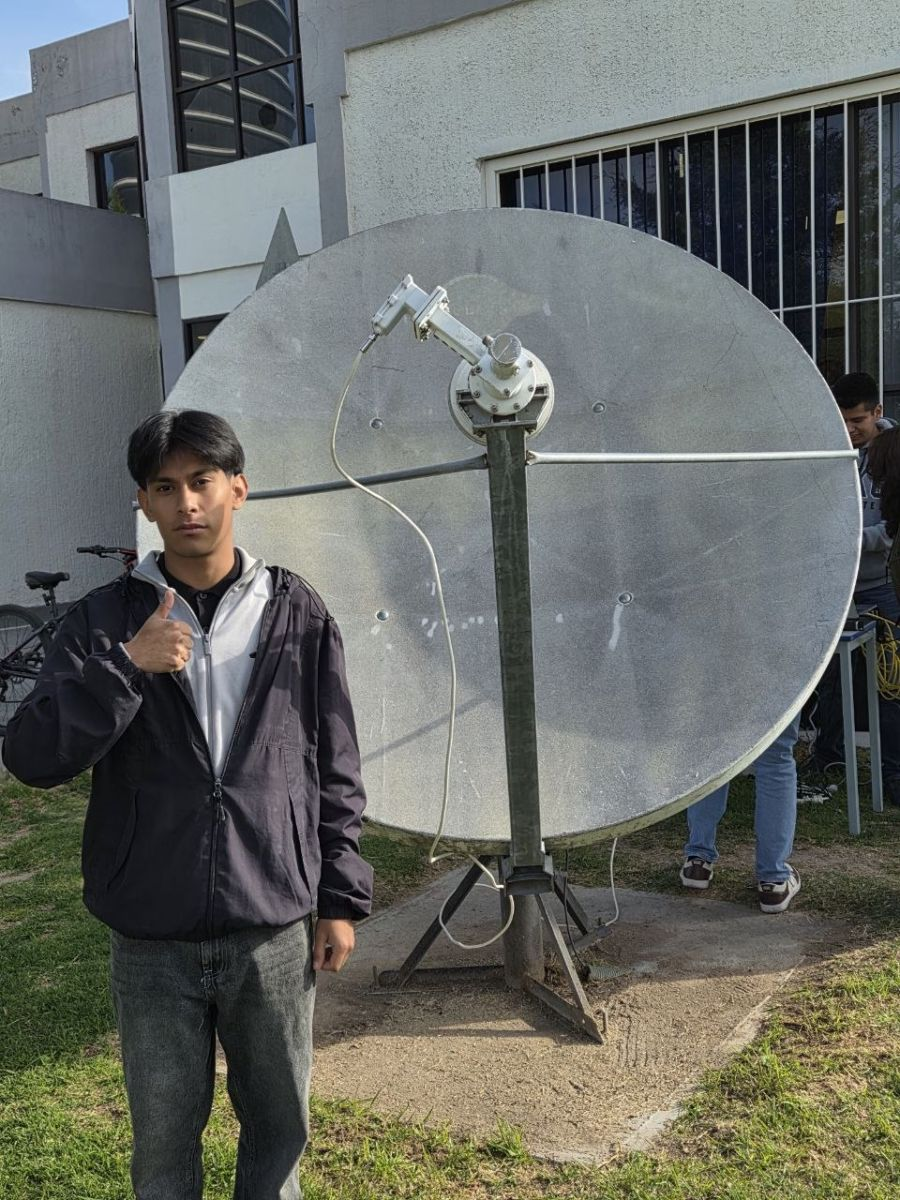
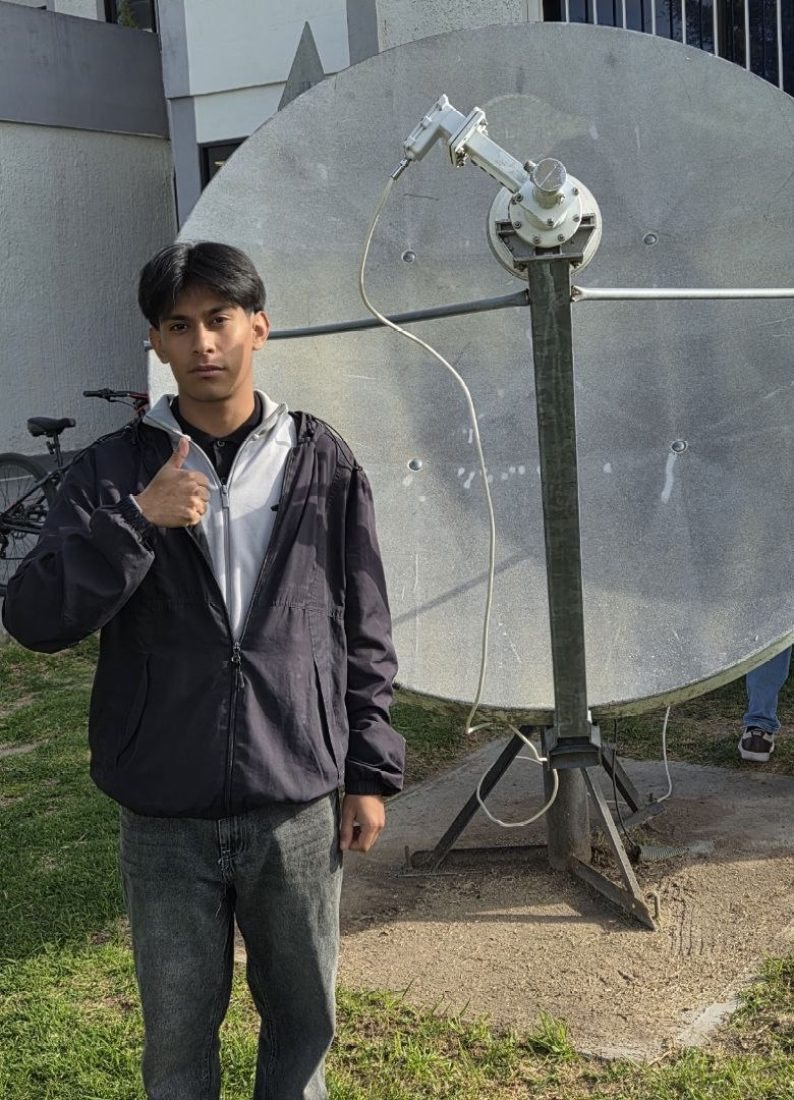
Mi historia en pantalla completa por capítulos, fotos del álbum dentro de la historia y foto de la antena reencuadrada

diff --git a/index.html b/index.html
@@ -162,6 +162,7 @@ section{position:relative}
 .about-pics figure{position:absolute;overflow:hidden;border-radius:20px;border:1px solid var(--line)}
 .about-pics img{width:100%;height:100%;object-fit:cover}
 .pic-a{left:0;top:0;width:62%;height:70%}
+.pic-a img{object-position:left 60%}
 .pic-b{right:0;bottom:0;width:50%;height:62%;box-shadow:-20px -20px 0 var(--bg)}
 .user-tag{position:absolute;left:0;bottom:0;width:46%;display:flex;flex-direction:column;gap:10px}
 .user-icons{display:flex;gap:8px}
@@ -178,36 +179,47 @@ section{position:relative}
 .story-btn:hover{background:var(--p);transform:translateY(-2px)}
 .story-btn svg{width:16px;height:16px}
 
-/* mi historia */
-.story{width:min(760px,calc(100% - 32px));max-height:calc(100% - 48px);margin:auto;padding:0;border:1px solid var(--line);border-radius:22px;background:var(--bg2);color:var(--white);overflow:auto}
-.story::backdrop{background:rgba(5,3,10,.78);backdrop-filter:blur(4px)}
-.story-head{position:sticky;top:0;z-index:1;display:flex;align-items:flex-start;justify-content:space-between;gap:16px;padding:28px 32px 20px;background:var(--bg2);border-bottom:1px solid var(--line)}
-.story-head h2{font:400 clamp(34px,5vw,48px)/1 var(--f-big);text-transform:uppercase}
-.story-close{flex:none;width:42px;height:42px;border-radius:50%;border:1px solid var(--line);background:none;color:var(--white);font-size:22px;line-height:1;cursor:pointer}
+/* mi historia: pantalla completa por capítulos */
+.story{width:100%;height:100%;max-width:none;max-height:none;margin:0;padding:0;border:0;background:var(--bg);color:var(--white);overflow-y:auto;overflow-x:hidden}
+.story[open]{animation:storyIn .35s ease}
+@keyframes storyIn{from{opacity:0;transform:translateY(18px)}to{opacity:1;transform:none}}
+.story::backdrop{background:rgba(5,3,10,.85)}
+.story-bar{position:sticky;top:0;z-index:3;background:rgba(10,10,12,.92);backdrop-filter:blur(10px);border-bottom:1px solid var(--line)}
+.story-bar .wrap{display:flex;align-items:center;justify-content:space-between;gap:16px;height:68px}
+.story-close{flex:none;display:inline-flex;align-items:center;gap:10px;height:42px;padding:0 16px;border-radius:999px;border:1px solid var(--line);background:none;color:var(--white);font:600 14px/1 var(--f-body);cursor:pointer;transition:border-color .2s}
 .story-close:hover{border-color:var(--p)}
-.timeline{list-style:none;padding:28px 32px 36px;position:relative}
-.timeline li{position:relative;padding:0 0 26px 34px}
-.timeline li:last-child{padding-bottom:0}
-.timeline li::before{content:"";position:absolute;left:5px;top:22px;bottom:-4px;width:2px;background:linear-gradient(var(--p),rgba(155,48,255,.15))}
-.timeline li:last-child::before{display:none}
-.timeline li::after{content:"";position:absolute;left:0;top:5px;width:12px;height:12px;border-radius:50%;background:var(--p);box-shadow:0 0 0 5px var(--p-soft)}
-.timeline .mono{color:var(--p);display:block;margin-bottom:4px}
-.timeline h3{font:400 24px/1.1 var(--f-big);letter-spacing:.02em;text-transform:uppercase;margin-bottom:6px}
-.timeline p{color:#cfcad8;font-size:15px}
-
-/* álbum */
-.album{display:grid;grid-template-columns:repeat(3,1fr);gap:18px}
-.shot{margin:0;background:var(--card);border:1px solid var(--line);border-radius:18px;overflow:hidden;display:flex;flex-direction:column}
+.story-close svg{width:16px;height:16px}
+.story-hero{position:relative;padding:70px 0 40px;overflow:hidden;isolation:isolate}
+.story-hero::before{content:"";position:absolute;inset:0;z-index:-1;background:
+  linear-gradient(115deg,transparent 40%,rgba(122,31,224,.14) 40%,rgba(122,31,224,.14) 54%,transparent 54%),
+  linear-gradient(65deg,transparent 50%,rgba(60,13,120,.3) 50%,rgba(60,13,120,.3) 64%,transparent 64%)}
+.story-ghost{font:400 clamp(70px,14vw,200px)/.85 var(--f-big);text-transform:uppercase;background:linear-gradient(180deg,#a43dff,#7a1fe0 60%,rgba(60,13,120,.3));-webkit-background-clip:text;background-clip:text;-webkit-text-fill-color:transparent}
+.story-intro{max-width:560px;margin-top:22px;font-size:18px;color:#d9d4e2}
+.chips{display:flex;flex-wrap:wrap;gap:8px;margin-top:28px}
+.chips a{padding:8px 13px;border:1px solid var(--line);border-radius:999px;font-size:13px;color:var(--muted);transition:border-color .2s,color .2s}
+.chips a:hover{border-color:var(--p);color:var(--white)}
+.ch{display:grid;grid-template-columns:200px 1fr;gap:44px;padding:64px 0;border-top:1px solid var(--line);scroll-margin-top:68px}
+.ch-num{display:block;font:400 120px/.8 var(--f-big);color:transparent;-webkit-text-stroke:1.5px var(--p)}
+.ch-age{display:inline-block;margin-top:14px;padding:6px 10px;border-radius:8px;background:var(--p-soft);color:var(--p)}
+.ch-body{display:grid;grid-template-columns:1fr auto;gap:20px 44px;align-items:start}
+.ch-body h3{font:400 clamp(36px,4vw,56px)/.95 var(--f-big);text-transform:uppercase;grid-column:1}
+.ch-body p{grid-column:1;max-width:580px;font-size:17px;color:#cfcad8}
+.ch-body p strong{color:var(--white)}
+.ch-ico{grid-column:2;grid-row:1/span 2;width:150px;height:150px;border-radius:28px;display:grid;place-items:center;background:linear-gradient(150deg,var(--p2),var(--p-deep));box-shadow:0 24px 60px -24px rgba(155,48,255,.7)}
+.ch-ico svg{width:64px;height:64px;color:#fff}
+.ch-media{grid-column:1/-1}
+.designs{display:grid;grid-template-columns:.75fr 1.25fr;gap:12px;margin-top:6px}
+.designs img{width:100%;height:auto;border-radius:12px;border:1px solid var(--line)}
+.designs .stack-d{display:grid;gap:12px;align-content:start}
+.gal{display:grid;grid-template-columns:repeat(3,1fr);gap:14px}
+.gal.two{grid-template-columns:1.5fr 1fr}
+.shot{margin:0;background:var(--card);border:1px solid var(--line);border-radius:16px;overflow:hidden;display:flex;flex-direction:column}
 .shot img{width:100%;aspect-ratio:4/3;object-fit:cover}
-.shot.wide{grid-column:span 2}
-.shot.wide img{aspect-ratio:16/9;object-position:center 40%}
-.shot.tall{grid-row:span 2}
-.shot.tall img{aspect-ratio:auto;flex:1;min-height:0;height:100%;object-position:center 25%}
-.shot figcaption{padding:14px 18px 16px;font-size:14px;color:#cfcad8}
+.gal.two .shot img{aspect-ratio:auto;height:100%;min-height:0;flex:1;object-position:center 30%}
+.shot figcaption{padding:12px 16px 14px;font-size:14px;color:#cfcad8}
 .shot figcaption b{display:block;color:var(--white);font-size:15px;margin-bottom:2px}
-.designs{display:grid;gap:10px;margin-top:12px}
-.designs img{width:100%;height:auto;border-radius:10px;border:1px solid var(--line)}
-.designs img.logo-d{width:min(100%,340px)}
+.story-end{padding:80px 0 90px;border-top:1px solid var(--line);text-align:center}
+.story-end blockquote{max-width:760px;margin:0 auto 30px;font:400 clamp(38px,5vw,64px)/1 var(--f-big);text-transform:uppercase}
 
 /* contacto */
 .contact{position:relative;overflow:hidden;background:var(--bg2);border-top:1px solid var(--line)}
@@ -256,9 +268,11 @@ section{position:relative}
   .projects{grid-template-columns:1fr}
   .head-bot{display:none}
   .about{grid-template-columns:1fr}
-  .album{grid-template-columns:1fr 1fr}
-  .shot.tall{grid-row:auto}
-  .shot.tall img{aspect-ratio:4/3;height:auto}
+  .ch{grid-template-columns:1fr;gap:18px;padding:48px 0}
+  .ch-side{display:flex;align-items:center;gap:16px}
+  .ch-num{font-size:76px}
+  .ch-age{margin-top:0}
+  .gal{grid-template-columns:1fr 1fr}
   .about-pics{height:540px}
   .contact .wrap{grid-template-columns:1fr}
   .sec{padding:84px 0}
@@ -278,18 +292,23 @@ section{position:relative}
   .stat strong{font-size:30px}
   .stat span{font-size:10px;letter-spacing:.08em}
   .sec-head{flex-direction:column;align-items:flex-start}
-  .stack,.grid3,.album{grid-template-columns:1fr}
-  .shot.wide{grid-column:auto}
-  .shot.wide img{aspect-ratio:4/3}
+  .stack,.grid3{grid-template-columns:1fr}
   .cell{border-right:0;border-bottom:1px solid var(--line);padding:28px 22px}
   .proj-media{height:280px}
   .proj-body{padding:24px 20px 22px}
   .proj-title{font-size:34px}
   .proj-cta{padding:20px}
   .about-pics{height:470px}
-  .story-head{padding:22px 20px 16px}
-  .timeline{padding:22px 20px 28px}
   .story-btn{padding:10px 14px;font-size:13px}
+  .story-bar .wrap{height:60px}
+  .story-hero{padding:44px 0 28px}
+  .story-intro{font-size:16px}
+  .ch-body{grid-template-columns:1fr}
+  .ch-body h3,.ch-body p{grid-column:1}
+  .ch-ico{grid-column:1;grid-row:auto;width:88px;height:88px;border-radius:20px;order:-1}
+  .ch-ico svg{width:40px;height:40px}
+  .gal,.gal.two,.designs{grid-template-columns:1fr}
+  .gal.two .shot img{aspect-ratio:4/3;height:auto}
   .user-name{font-size:21px}
   .links{margin-top:120px}
   .contact-bot{right:14px;bottom:calc(100% - 4px);height:150px}
@@ -317,7 +336,7 @@ section{position:relative}
       <a href="#stack">Stack</a>
       <a href="#trayectoria">Trayectoria</a>
       <a href="#sobre-mi">Sobre mí</a>
-      <a href="#album">Álbum</a>
+      <a href="#historia" data-story>Mi historia</a>
       <a href="#contacto">Contacto</a>
     </nav>
     <div class="status mono"><i></i>UAEH · Hidalgo</div>
@@ -329,7 +348,7 @@ section{position:relative}
   <a href="#stack">Stack</a>
   <a href="#trayectoria">Trayectoria</a>
   <a href="#sobre-mi">Sobre mí</a>
-  <a href="#album">Álbum</a>
+  <a href="#historia" data-story>Mi historia</a>
   <a href="#contacto">Contacto</a>
 </nav>
 
@@ -510,34 +529,11 @@ section{position:relative}
   </div>
 </section>
 
-<!-- ÁLBUM -->
-<section class="sec" id="album" style="padding-top:0">
-  <div class="wrap">
-    <div class="sec-head rv">
-      <div>
-        <p class="kicker mono">04 · Álbum</p>
-        <h2 class="h2">En <span class="accent">campo</span> y en el <span class="accent">laboratorio</span></h2>
-      </div>
-      <p>Proyectos, prácticas y el equipo de telecomunicaciones con el que he trabajado.</p>
-    </div>
-    <div class="album">
-      <figure class="shot wide rv"><img src="img/submarino-lora.jpg" alt="Equipo con el submarino RC en una exposición" loading="lazy">
-        <figcaption><b>Submarino RC con LoRa</b>Exposición de proyecto en equipo. Mi parte: integrar el GPS para su geolocalización.</figcaption></figure>
-      <figure class="shot tall rv"><img src="img/gps-autobus.jpg" alt="Gabriel instalando un GPS en un autobús" loading="lazy">
-        <figcaption><b>GPS en autobuses de la UAEH</b>Instalación en el tablero eléctrico de la unidad.</figcaption></figure>
-      <figure class="shot rv"><img src="img/osciloscopio.jpg" alt="Osciloscopio Rohde &amp; Schwarz RTE 1102 midiendo señales" loading="lazy">
-        <figcaption><b>Osciloscopio R&amp;S RTE 1102</b>1 GHz · 5 GSa/s, sobre un analizador de señales R&amp;S FSV.</figcaption></figure>
-      <figure class="shot rv"><img src="img/analizador-espectro.jpg" alt="Analizador de espectro portátil Rohde &amp; Schwarz FSH4" loading="lazy">
-        <figcaption><b>Analizador de espectro R&amp;S FSH4</b>Portátil, de 100 kHz a 3.6 GHz.</figcaption></figure>
-    </div>
-  </div>
-</section>
-
 <!-- CONTACTO -->
 <section class="contact" id="contacto">
   <div class="wrap">
     <div class="rv">
-      <p class="kicker mono">05 · Contacto</p>
+      <p class="kicker mono">04 · Contacto</p>
       <h2 class="big-cta">Encuéntrame<span class="accent">en línea</span></h2>
     </div>
     <div class="links rv">
@@ -560,28 +556,110 @@ section{position:relative}
 
 
 <dialog class="story" id="story" aria-labelledby="storyTitle">
-  <div class="story-head">
-    <div>
-      <p class="kicker mono" style="color:var(--p);margin-bottom:8px">Por qué me gusta la tecnología</p>
-      <h2 id="storyTitle">Mi historia</h2>
+  <div class="story-bar">
+    <div class="wrap">
+      <a class="brand" href="#ch1"><img src="img/logo.png" alt=""><span>GABGARI</span></a>
+      <button class="story-close" type="button" id="storyClose">
+        <svg viewBox="0 0 24 24" fill="none" stroke="currentColor" stroke-width="2"><path d="M19 12H5M11 18l-6-6 6-6"/></svg>Volver</button>
     </div>
-    <button class="story-close" type="button" id="storyClose" aria-label="Cerrar">×</button>
   </div>
-  <ol class="timeline">
-    <li><span class="mono">4–5 años</span><h3>El aula de mi mamá</h3><p>Me llevaba a sus cursos de computación porque no tenía con quién dejarme. El profe me prestaba una máquina libre y yo pasaba horas en Paint. Ahí empezó todo.</p></li>
-    <li><span class="mono">Siempre</span><h3>Desarmador oficial</h3><p>Quería saber cómo funcionaban mis juguetes… y casi siempre terminaban rotos.</p></li>
-    <li><span class="mono">10 años</span><h3>Internet en casa</h3><p>Descubrí todo lo que se podía hacer: juegos, descargas y uno que otro virus.</p></li>
-    <li><span class="mono">Primaria</span><h3>El técnico del salón</h3><p>Instalaba y configuraba juegos en el aula de cómputo para jugar con mis compañeros.</p></li>
-    <li><span class="mono">Secundaria</span><h3>Diseño</h3><p>Photoshop y Lightroom: banners, logos y headers.</p>
-      <div class="designs">
-        <img class="logo-d" src="img/diseno-casco.jpg" alt="Logo de casco con variantes de color" loading="lazy">
-        <img src="img/diseno-header-zxur.jpg" alt="Header morado con tipografía gótica" loading="lazy">
-        <img src="img/diseno-header-gab.jpg" alt="Header GAB en rojo y negro" loading="lazy">
-        <img src="img/diseno-header-coc.jpg" alt="Header con personajes de Clash of Clans" loading="lazy">
-      </div></li>
-    <li><span class="mono">Preparatoria</span><h3>La decisión</h3><p>Llegó la pandemia y la orientación vocacional me confirmó que lo mío era la ingeniería.</p></li>
-    <li><span class="mono">UAEH</span><h3>Telecomunicaciones</h3><p>Programación, fibra óptica, antenas, redes y procesamiento digital de señales, más conferencias de IA y ciberseguridad. Cambió mi forma de ver el mundo.</p></li>
-  </ol>
+  <header class="story-hero">
+    <div class="wrap">
+      <p class="kicker mono" style="color:var(--p)">Por qué me gusta la tecnología</p>
+      <h2 class="story-ghost" id="storyTitle">Mi historia</h2>
+      <p class="story-intro">De pasar horas en Paint a medir señales con un analizador de espectro. Ocho momentos que me trajeron hasta aquí.</p>
+      <nav class="chips" aria-label="Capítulos">
+        <a href="#ch1">01 · Paint</a><a href="#ch2">02 · Juguetes</a><a href="#ch3">03 · Internet</a><a href="#ch4">04 · El salón</a>
+        <a href="#ch5">05 · Diseño</a><a href="#ch6">06 · La decisión</a><a href="#ch7">07 · UAEH</a><a href="#ch8">08 · Hoy</a>
+      </nav>
+    </div>
+  </header>
+  <div class="wrap">
+    <article class="ch" id="ch1">
+      <div class="ch-side"><span class="ch-num">01</span><span class="ch-age mono">4–5 años</span></div>
+      <div class="ch-body">
+        <h3>El aula de mi mamá</h3>
+        <p>Me llevaba a sus cursos de computación porque no tenía con quién dejarme. El profe me prestaba una máquina cuando alguien faltaba y yo pasaba horas en Paint, preguntándome cómo funcionaba una PC. <strong>Ahí empezó todo.</strong></p>
+        <div class="ch-ico" aria-hidden="true"><svg viewBox="0 0 24 24" fill="none" stroke="currentColor" stroke-width="1.6"><rect x="3" y="4" width="18" height="12" rx="2"/><path d="M8 20h8M12 16v4M14.5 7.5l-5 5M9 13l-1 1"/></svg></div>
+      </div>
+    </article>
+    <article class="ch" id="ch2">
+      <div class="ch-side"><span class="ch-num">02</span><span class="ch-age mono">Siempre</span></div>
+      <div class="ch-body">
+        <h3>Desarmador oficial</h3>
+        <p>Quería saber cómo funcionaban mis juguetes por dentro… y casi siempre terminaban rotos.</p>
+        <div class="ch-ico" aria-hidden="true"><svg viewBox="0 0 24 24" fill="none" stroke="currentColor" stroke-width="1.6"><circle cx="12" cy="12" r="3.2"/><path d="M12 2.5v3M12 18.5v3M2.5 12h3M18.5 12h3M5.3 5.3l2.1 2.1M16.6 16.6l2.1 2.1M5.3 18.7l2.1-2.1M16.6 7.4l2.1-2.1"/></svg></div>
+      </div>
+    </article>
+    <article class="ch" id="ch3">
+      <div class="ch-side"><span class="ch-num">03</span><span class="ch-age mono">10 años</span></div>
+      <div class="ch-body">
+        <h3>Internet en casa</h3>
+        <p>La primera vez que tuve internet me maravillé con todo lo que se podía hacer: juegos, descargas y uno que otro virus.</p>
+        <div class="ch-ico" aria-hidden="true"><svg viewBox="0 0 24 24" fill="none" stroke="currentColor" stroke-width="1.6"><circle cx="12" cy="12" r="9"/><path d="M3 12h18M12 3a14 14 0 0 1 0 18M12 3a14 14 0 0 0 0 18"/></svg></div>
+      </div>
+    </article>
+    <article class="ch" id="ch4">
+      <div class="ch-side"><span class="ch-num">04</span><span class="ch-age mono">Primaria</span></div>
+      <div class="ch-body">
+        <h3>El técnico del salón</h3>
+        <p>Instalaba y configuraba juegos en el aula de cómputo para que pudiéramos jugar todos juntos.</p>
+        <div class="ch-ico" aria-hidden="true"><svg viewBox="0 0 24 24" fill="none" stroke="currentColor" stroke-width="1.6"><path d="M6.5 7h11a4 4 0 0 1 3.9 3.2l1 5.3a2.6 2.6 0 0 1-4.6 2.1L16 15.5H8l-1.8 2.1a2.6 2.6 0 0 1-4.6-2.1l1-5.3A4 4 0 0 1 6.5 7z"/><path d="M8 10v3M6.5 11.5h3"/><circle cx="15.5" cy="10.5" r=".7" fill="currentColor"/><circle cx="17" cy="12.5" r=".7" fill="currentColor"/></svg></div>
+      </div>
+    </article>
+    <article class="ch" id="ch5">
+      <div class="ch-side"><span class="ch-num">05</span><span class="ch-age mono">Secundaria</span></div>
+      <div class="ch-body">
+        <h3>Diseño</h3>
+        <p>Photoshop y Lightroom: banners, logos y headers. Ahí aprendí a cuidar cómo se ve lo que hago.</p>
+        <div class="ch-media designs">
+          <img src="img/diseno-casco.jpg" alt="Logo de casco con la franja GAB" loading="lazy">
+          <div class="stack-d">
+            <img src="img/diseno-header-zxur.jpg" alt="Header morado con tipografía gótica" loading="lazy">
+            <img src="img/diseno-header-gab.jpg" alt="Header GAB en rojo y negro" loading="lazy">
+            <img src="img/diseno-header-coc.jpg" alt="Header con personajes de Clash of Clans" loading="lazy">
+          </div>
+        </div>
+      </div>
+    </article>
+    <article class="ch" id="ch6">
+      <div class="ch-side"><span class="ch-num">06</span><span class="ch-age mono">Preparatoria</span></div>
+      <div class="ch-body">
+        <h3>La decisión</h3>
+        <p>Llegó la pandemia y la orientación vocacional me confirmó lo que ya sospechaba: lo mío era la ingeniería.</p>
+        <div class="ch-ico" aria-hidden="true"><svg viewBox="0 0 24 24" fill="none" stroke="currentColor" stroke-width="1.6"><circle cx="12" cy="12" r="9"/><path d="M15.5 8.5l-2 5-5 2 2-5z"/></svg></div>
+      </div>
+    </article>
+    <article class="ch" id="ch7">
+      <div class="ch-side"><span class="ch-num">07</span><span class="ch-age mono">UAEH</span></div>
+      <div class="ch-body">
+        <h3>Telecomunicaciones</h3>
+        <p>Programación, teoría de telecomunicaciones, circuitos, medios de transmisión, antenas, fibra óptica, redes y procesamiento digital de señales, más conferencias de IA y ciberseguridad. <strong>Cambió mi forma de ver el mundo.</strong></p>
+        <div class="ch-media gal">
+          <figure class="shot"><img src="img/osciloscopio.jpg" alt="Osciloscopio Rohde &amp; Schwarz RTE 1102 midiendo señales" loading="lazy"><figcaption><b>Osciloscopio R&amp;S RTE 1102</b>1 GHz · 5 GSa/s, sobre un analizador de señales R&amp;S FSV.</figcaption></figure>
+          <figure class="shot"><img src="img/analizador-espectro.jpg" alt="Analizador de espectro portátil Rohde &amp; Schwarz FSH4" loading="lazy"><figcaption><b>Analizador de espectro R&amp;S FSH4</b>Portátil, de 100 kHz a 3.6 GHz.</figcaption></figure>
+          <figure class="shot"><img src="img/campus.jpg" alt="Gabriel en el campus" loading="lazy"><figcaption><b>Entre clases</b>Cada día, algo nuevo.</figcaption></figure>
+        </div>
+      </div>
+    </article>
+    <article class="ch" id="ch8">
+      <div class="ch-side"><span class="ch-num">08</span><span class="ch-age mono">Hoy</span></div>
+      <div class="ch-body">
+        <h3>Llevarlo al mundo real</h3>
+        <p>De la teoría a proyectos que funcionan fuera del aula: en equipo, en campo y con usuarios reales.</p>
+        <div class="ch-media gal two">
+          <figure class="shot"><img src="img/submarino-lora.jpg" alt="Equipo con el submarino RC en una exposición" loading="lazy"><figcaption><b>Submarino RC con LoRa</b>Proyecto en equipo. Mi parte: integrar el GPS para su geolocalización.</figcaption></figure>
+          <figure class="shot"><img src="img/gps-autobus.jpg" alt="Gabriel instalando un GPS en un autobús" loading="lazy"><figcaption><b>GPS en autobuses de la UAEH</b>Instalación en el tablero eléctrico de la unidad.</figcaption></figure>
+        </div>
+      </div>
+    </article>
+  </div>
+  <footer class="story-end">
+    <div class="wrap">
+      <blockquote>Cada día se debe aprender <span class="accent">algo nuevo.</span></blockquote>
+      <button class="btn btn-p" type="button" id="storyBack">Volver al portafolio</button>
+    </div>
+  </footer>
 </dialog>
 
 <script>
@@ -601,9 +679,14 @@ section{position:relative}
   });
 
   var story=document.getElementById('story');
-  document.getElementById('storyOpen').addEventListener('click',function(){story.showModal()});
-  document.getElementById('storyClose').addEventListener('click',function(){story.close()});
-  story.addEventListener('click',function(e){if(e.target===story)story.close()});
+  function openStory(e){if(e)e.preventDefault();document.body.classList.remove('nav-open');story.showModal();story.scrollTop=0}
+  document.getElementById('storyOpen').addEventListener('click',openStory);
+  document.querySelectorAll('[data-story]').forEach(function(a){a.addEventListener('click',openStory)});
+  ['storyClose','storyBack'].forEach(function(id){document.getElementById(id).addEventListener('click',function(){story.close()})});
+  // los capítulos se desplazan dentro del diálogo, no en la página
+  story.querySelectorAll('a[href^="#ch"]').forEach(function(a){
+    a.addEventListener('click',function(e){e.preventDefault();var t=story.querySelector(a.getAttribute('href'));if(t)t.scrollIntoView({behavior:'smooth'})});
+  });
 
   var els=document.querySelectorAll('.rv');
   if(!('IntersectionObserver' in window)){els.forEach(function(e){e.classList.add('in')});return}
